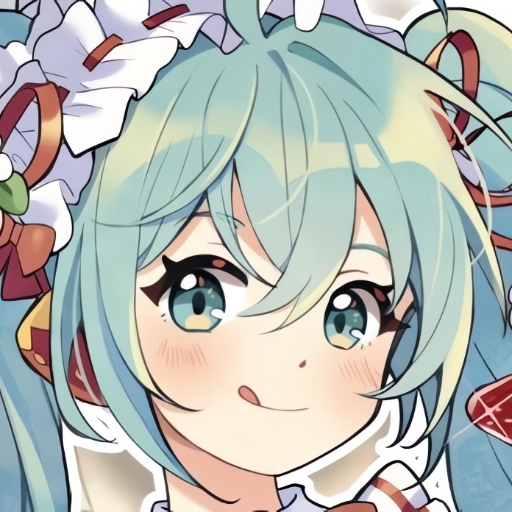
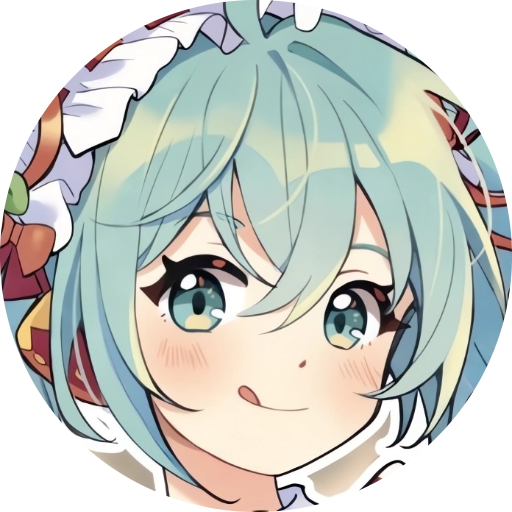
git push -u origin main

diff --git a/index.html b/index.html
@@ -5,16 +5,19 @@
     <meta name="viewport" content="width=initial-scale=1.0">
     <title>(O-O)</title>
 </head>
-<body>
-    <div style="background-color: rgb(118, 247, 238);
+<body style="background-color: rgb(195, 243, 243);">
+    <div style="
+    background-color: rgb(118, 247, 238);
     padding: 20px;
     text-align: center;
+    margin: 0px;
     ">
-    <img src="" alt=""></div>
-    
-    <div style="max-width: 760;
-    background-color: rgb(194, 243, 243);">
-        
+        <img src="https://github.com/ORAYYYY/THE-SECOND/blob/main/image/HEADMIKU_1.png?raw=true" alt="mikuhead" style="max-width: 70px;">
+    </div>
+
+    <div>
+        <p>this is INKBLOT</p>
+        <p>nothing here</p>
         <link rel="stylesheet" href="">
     </div>
     
